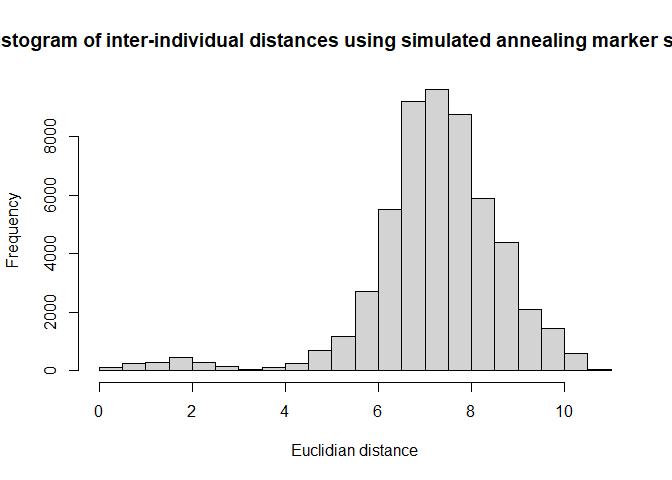
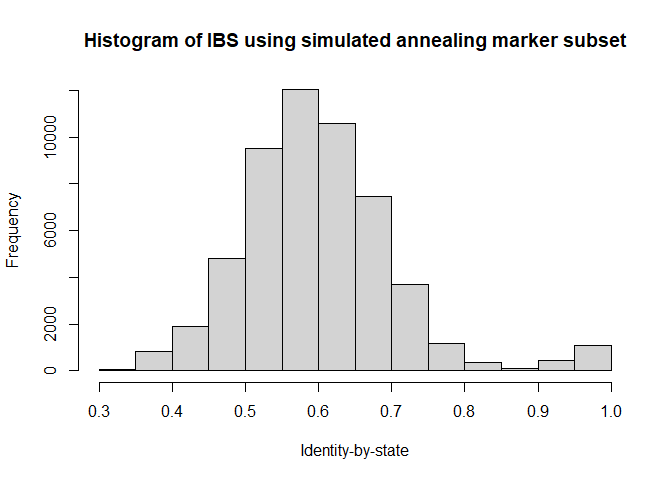
Add BIC graph, render

diff --git a/Pedigree_verification.md b/Pedigree_verification.md
@@ -64,25 +64,25 @@ inter-individual distances and look at the distribution of those
 distances.
 
 ``` r
-mydist <- interIndividualDist(numgen)
+myIBS <- interIndividualIBS(numgen)
 
-hist(mydist, xlab = "Euclidian distance", main = "Histogram of inter-individual distances")
+hist(myIBS, xlab = "Identity-by-state", main = "Histogram of IBS")
 ```
 
 ![](Pedigree_verification_files/figure-gfm/inddist-1.png)<!-- -->
 
 ``` r
-plot(nj(mydist), type = "unrooted", show.tip.label = FALSE)
+plot(nj(1 - myIBS), type = "unrooted", show.tip.label = FALSE)
 ```
 
 ![](Pedigree_verification_files/figure-gfm/njtree-1.png)<!-- -->
 
 Here it looks like the most closely related individuals are family
-members, not clones. If there were some values closer to zero, however,
+members, not clones. If there were some values closer to one, however,
 clones could be removed using the `removeClones` function.
 
 ``` r
-numgen <- removeClones(numgen, mydist)
+numgen <- removeClones(numgen, myIBS)
 ```
 
 ### Observed and expected heterozygosity
@@ -184,14 +184,18 @@ test the allele frequency within each genetic group. We generally want a
 variety of markers so that we have some that are variable within each
 group, and some that can distinguish groups. We’ll use the Discriminant
 Analysis of Principal Components (DAPC) protocol implemented in the
-`adegenet` package. In order to knit this document I have to set
-`n.pca`, `n.clust`, and `n.da` manually, but for your work I recommend a
-first pass where they are left as `NULL` so that you can chose them
-based on where the graphs plateau.
+`adegenet` package. In order to knit this document I have to set `n.pca`
+and `n.da` manually, but for your work I recommend a first pass where
+they are left as `NULL` so that you can chose them based on where the
+graphs plateau.
 
 ``` r
-myclust <- find.clusters(t(numgen), n.pca = 100, n.clust = 10)
+myclust <- find.clusters(t(numgen), n.pca = 100)
 ```
+
+![](Pedigree_verification_files/figure-gfm/loadclust-1.png)<!-- -->
+
+Based on the BIC graph, we’ll select ten clusters.
 
 Check the size of the groups. If it is very uneven, you may want fewer
 groups.
@@ -438,31 +442,31 @@ sort(markers_simanneal)
 How well do the markers distinguish individuals in the dataset?
 
 ``` r
-dist_purity <- interIndividualDist(numgen[markers_purity,])
+ibs_purity <- interIndividualIBS(numgen[markers_purity,])
 
-hist(dist_purity, xlab = "Euclidian distance",
-     main = "Histogram of inter-individual distances using Purity marker subset")
+hist(ibs_purity, xlab = "Identity-by-state",
+     main = "Histogram of IBS using Purity marker subset")
 ```
 
 ![](Pedigree_verification_files/figure-gfm/markerset_dist-1.png)<!-- -->
 
 ``` r
-mean(dist_purity == 0)
+mean(ibs_purity == 1)
 ```
 
     ## [1] 9.26681e-05
 
 ``` r
-dist_simanneal <- interIndividualDist(numgen[markers_simanneal,])
+ibs_simanneal <- interIndividualIBS(numgen[markers_simanneal,])
 
-hist(dist_simanneal, xlab = "Euclidian distance",
-     main = "Histogram of inter-individual distances using simulated annealing marker subset")
+hist(ibs_simanneal, xlab = "Identity-by-state",
+     main = "Histogram of IBS using simulated annealing marker subset")
 ```
 
 ![](Pedigree_verification_files/figure-gfm/markerset_dist-2.png)<!-- -->
 
 ``` r
-mean(dist_simanneal == 0)
+mean(ibs_simanneal == 1)
 ```
 
     ## [1] 0.00194603
